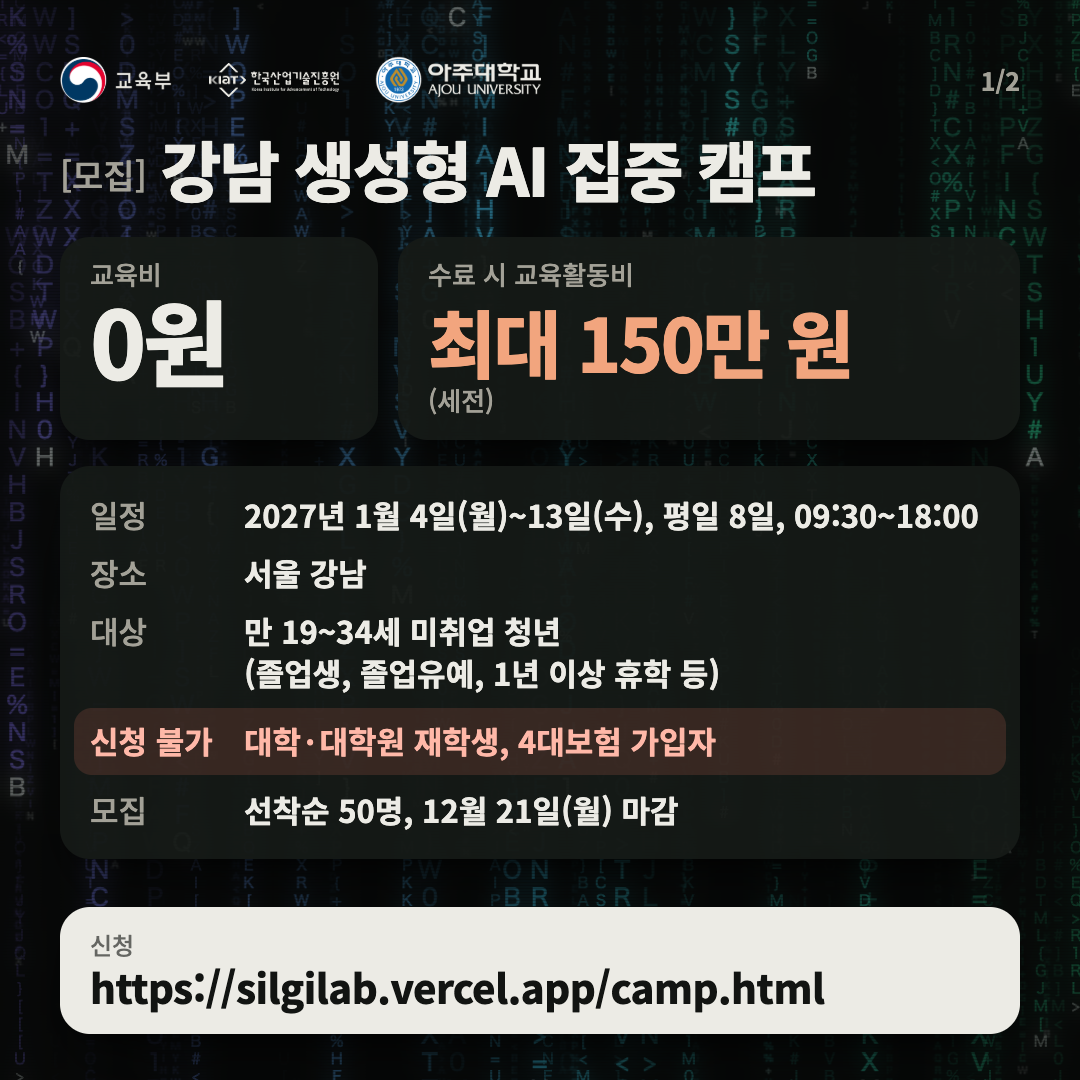
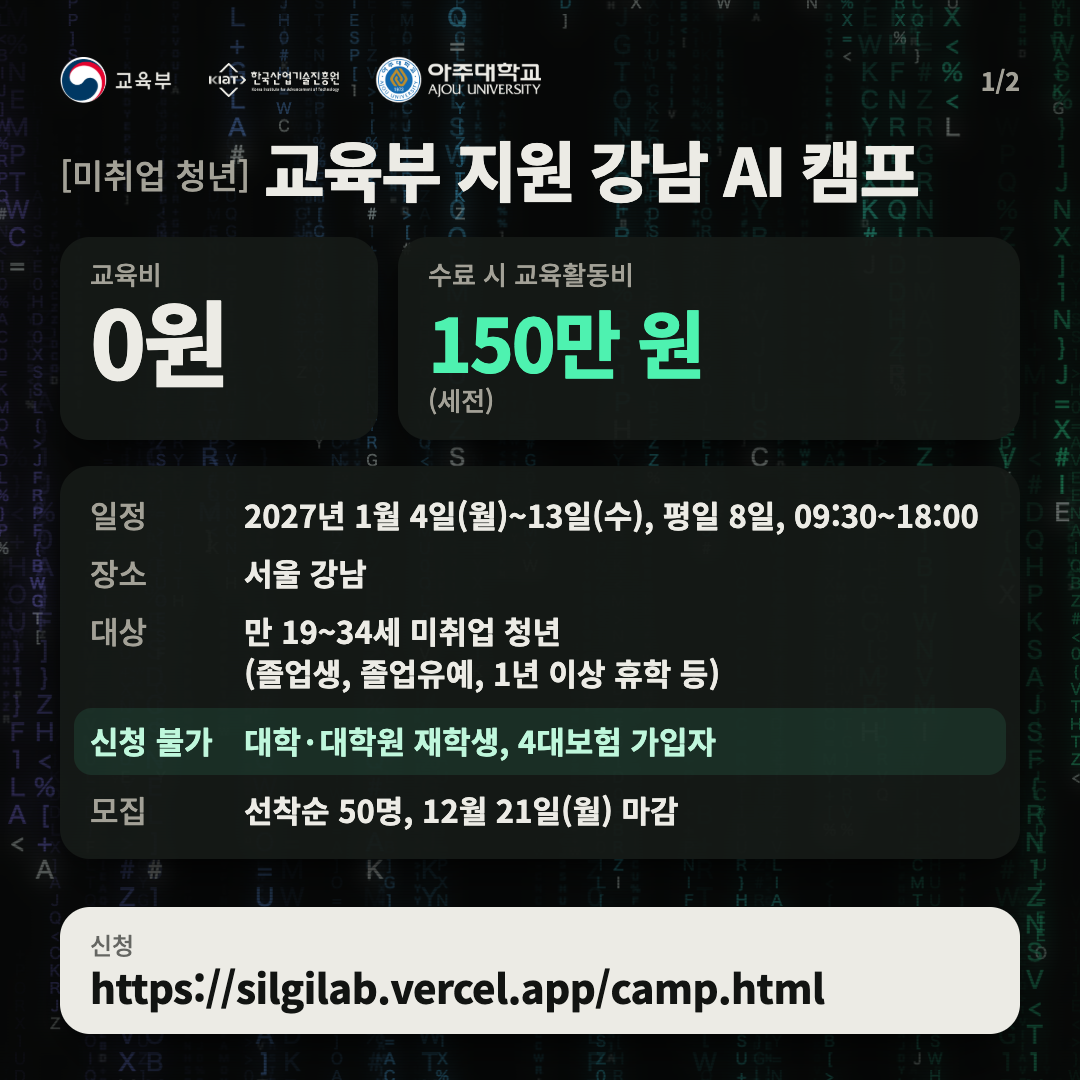
Mint accents, new title, amount without "최대"
- Title: [미취업 청년] 교육부 지원 강남 AI 캠프 · 교육비 0원 · 수료 시 150만 원
- Headline amount shows 150만 원; the detail row keeps "수료 시 최대 150만 원(세전)"
- Amounts and warnings move from orange/pink to the mint of the rain
- Share cards re-rendered

diff --git a/source/cards.html b/source/cards.html
@@ -115,8 +115,8 @@ h1 .tag{font-size:34px;font-weight:500;color:var(--mute);letter-spacing:0;margin
 #ad .meta span{color:var(--mute);font-weight:500}
 
 /* dark cards (portrait, square1, square2), matching camp.html. #ad stays light. */
-.dk{--ink:#ecebe5;--mute:#a3a197;--accent:#f2a57e;--warn:#ffb8a8;
-  --glass:rgba(21,25,22,.95);--glass-strong:rgba(255,255,255,.1);--rose:rgba(255,128,104,.15);
+.dk{--ink:#ecebe5;--mute:#a3a197;--accent:#4ef2b0;--warn:#bff7dc;
+  --glass:rgba(21,25,22,.95);--glass-strong:rgba(255,255,255,.1);--rose:rgba(78,242,176,.10);
   --lift:0 34px 64px -30px rgba(0,0,0,.9),0 10px 22px -14px rgba(0,0,0,.7);
   background:#0b0d0c;color:var(--ink)}
 .dk::before,.dk::after{display:none}
@@ -132,6 +132,7 @@ h1 .tag{font-size:34px;font-weight:500;color:var(--mute);letter-spacing:0;margin
 .dk .cta .lab{opacity:.62}
 .dk .c2 .opt,.dk.c2 .opt{background:rgba(255,255,255,.05)}
 .dk .phrase{box-shadow:none}
+.dk .big-note{box-shadow:inset 6px 0 0 var(--accent),var(--lift)}
 </style>
 </head>
 <body>
@@ -140,10 +141,10 @@ h1 .tag{font-size:34px;font-weight:500;color:var(--mute);letter-spacing:0;margin
 <section class="card pt dk" id="portrait">
   <canvas class="rain" width="1080" height="1350"></canvas>
   <div class="marks"><span class="chip"><img class="moe" src="../img/logo-moe-dark.png" alt="교육부"><img class="kiat" src="../img/logo-kiat-dark.png" alt="한국산업기술진흥원(KIAT)"><img class="ajou" src="../img/logo-ajou-dark.png" alt="아주대학교"></span></div>
-  <h1><span class="tag">[모집]</span>강남 생성형 AI 집중 캠프</h1>
+  <h1><span class="tag">[미취업 청년]</span>교육부 지원 강남 AI 캠프</h1>
   <div class="money">
     <div class="glass"><small>교육비</small><strong>0원</strong></div>
-    <div class="glass pay"><small>수료 시 교육활동비</small><strong>최대 150만 원</strong><em>(세전)</em></div>
+    <div class="glass pay"><small>수료 시 교육활동비</small><strong>150만 원</strong><em>(세전)</em></div>
   </div>
   <dl class="info glass">
     <div><dt>일정</dt><dd>2027년 1월 4일(월)~13일(수), 평일 8일, 09:30~18:00</dd></div>
@@ -168,10 +169,10 @@ h1 .tag{font-size:34px;font-weight:500;color:var(--mute);letter-spacing:0;margin
 <section class="card sq dk" id="square1">
   <canvas class="rain" width="1080" height="1080"></canvas>
   <div class="marks"><span class="chip"><img class="moe" src="../img/logo-moe-dark.png" alt="교육부"><img class="kiat" src="../img/logo-kiat-dark.png" alt="한국산업기술진흥원(KIAT)"><img class="ajou" src="../img/logo-ajou-dark.png" alt="아주대학교"></span><span class="pg">1/2</span></div>
-  <h1><span class="tag">[모집]</span>강남 생성형 AI 집중 캠프</h1>
+  <h1><span class="tag">[미취업 청년]</span>교육부 지원 강남 AI 캠프</h1>
   <div class="money">
     <div class="glass"><small>교육비</small><strong>0원</strong></div>
-    <div class="glass pay"><small>수료 시 교육활동비</small><strong>최대 150만 원</strong><em>(세전)</em></div>
+    <div class="glass pay"><small>수료 시 교육활동비</small><strong>150만 원</strong><em>(세전)</em></div>
   </div>
   <dl class="info glass">
     <div><dt>일정</dt><dd>2027년 1월 4일(월)~13일(수), 평일 8일, 09:30~18:00</dd></div>
@@ -190,7 +191,7 @@ h1 .tag{font-size:34px;font-weight:500;color:var(--mute);letter-spacing:0;margin
 <section class="card sq c2 dk" id="square2">
   <canvas class="rain" width="1080" height="1080"></canvas>
   <div class="marks"><span class="chip"><img class="moe" src="../img/logo-moe-dark.png" alt="교육부"><img class="kiat" src="../img/logo-kiat-dark.png" alt="한국산업기술진흥원(KIAT)"><img class="ajou" src="../img/logo-ajou-dark.png" alt="아주대학교"></span><span class="pg">2/2</span></div>
-  <p class="kicker">강남 생성형 AI 집중 캠프</p>
+  <p class="kicker">교육부 지원 강남 AI 캠프</p>
   <h1>[스타벅스 1만 원 쿠폰]</h1>
   <div class="steps glass">
     <div class="step"><i>1</i><div>신청서의 '캠프를 어떻게 알게 되었나요?'에서 '지인 추천'을 골라 주세요.</div></div>

diff --git a/camp.html b/camp.html
@@ -3,12 +3,12 @@
 <head>
 <meta charset="utf-8">
 <meta name="viewport" content="width=device-width, initial-scale=1">
-<title>강남 생성형 AI 집중 캠프 모집 안내</title>
-<meta name="description" content="교육비 0원, 수료 시 교육활동비 최대 150만 원. 8일 동안 바이브코딩으로 AI 에이전트를 직접 만드는 오프라인 과정입니다.">
+<title>[미취업 청년] 교육부 지원 강남 AI 캠프 · 교육비 0원 · 수료 시 150만 원</title>
+<meta name="description" content="교육비 0원, 수료 시 교육활동비 150만 원. 8일 동안 바이브코딩으로 AI 에이전트를 직접 만드는 오프라인 과정입니다.">
 <link rel="canonical" href="https://jasonwpgml.github.io/camp-promo/camp.html">
 <meta property="og:type" content="website">
 <meta property="og:url" content="https://jasonwpgml.github.io/camp-promo/camp.html">
-<meta property="og:title" content="강남 생성형 AI 집중 캠프 | 교육비 0원, 수료 시 교육활동비 최대 150만 원">
+<meta property="og:title" content="[미취업 청년] 교육부 지원 강남 AI 캠프 · 교육비 0원 · 수료 시 150만 원">
 <meta property="og:description" content="8일 동안 바이브코딩으로 AI 에이전트를 직접 만드는 오프라인 과정입니다. 2027년 1월 4일(월)~13일(수), 서울 강남.">
 <meta property="og:image" content="https://jasonwpgml.github.io/camp-promo/camp-1080x1080-1.png">
 <meta property="og:image:width" content="1080">
@@ -18,8 +18,8 @@
 <meta name="theme-color" content="#0b0d0c">
 <style>
 :root{
-  --bg:#0b0d0c; --ink:#ecebe5; --mute:#a3a197; --accent:#f2a57e; --warn:#ffb8a8;
-  --panel:rgba(19,22,20,.94); --inset:rgba(255,255,255,.07); --rose:rgba(255,128,104,.14);
+  --bg:#0b0d0c; --ink:#ecebe5; --mute:#a3a197; --accent:#4ef2b0; --warn:#bff7dc;
+  --panel:rgba(19,22,20,.94); --inset:rgba(255,255,255,.07); --rose:rgba(78,242,176,.10);
   --light:#ecebe5; --lift:0 24px 48px -24px rgba(0,0,0,.85),0 8px 18px -12px rgba(0,0,0,.6);
   color-scheme:dark;
 }
@@ -108,7 +108,7 @@ dl.info>div.no dt,dl.info>div.no dd{color:var(--warn);font-weight:700}
   background:#fee500;color:#191600}
 @media (max-width:400px){.opt{margin-left:0}}
 .coupon .note{margin-top:16px}
-.note{margin:14px 0 0;padding:14px 16px;background:var(--rose);border-radius:14px;
+.note{margin:14px 0 0;padding:14px 16px;background:var(--rose);border-radius:14px;box-shadow:inset 4px 0 0 var(--accent);
   font-size:16px;font-weight:600;color:var(--warn)}
 
 footer{margin:28px 0 0;padding:0 0 40px;font-size:14px;color:var(--mute)}
@@ -126,11 +126,11 @@ footer p{margin:0 0 4px}
 </div>
 
 <header>
-  <h1><span class="tag">[모집]</span>강남 생성형 AI 집중 캠프</h1>
+  <h1><span class="tag">[미취업 청년]</span>교육부 지원 강남 AI 캠프</h1>
   <p class="event">(스타벅스 1만원 쿠폰 이벤트)</p>
-  <div class="money" role="group" aria-label="교육비 0원, 수료 시 교육활동비 최대 150만 원">
+  <div class="money" role="group" aria-label="교육비 0원, 수료 시 교육활동비 150만 원">
     <div class="glass"><small>교육비</small><strong>0원</strong></div>
-    <div class="glass pay"><small>수료 시 교육활동비</small><strong>최대 150만 원</strong></div>
+    <div class="glass pay"><small>수료 시 교육활동비</small><strong>150만 원</strong></div>
   </div>
   <p class="intro">8일 동안 바이브코딩으로 AI 에이전트를 직접 만드는 오프라인 과정입니다.</p>
 </header>
